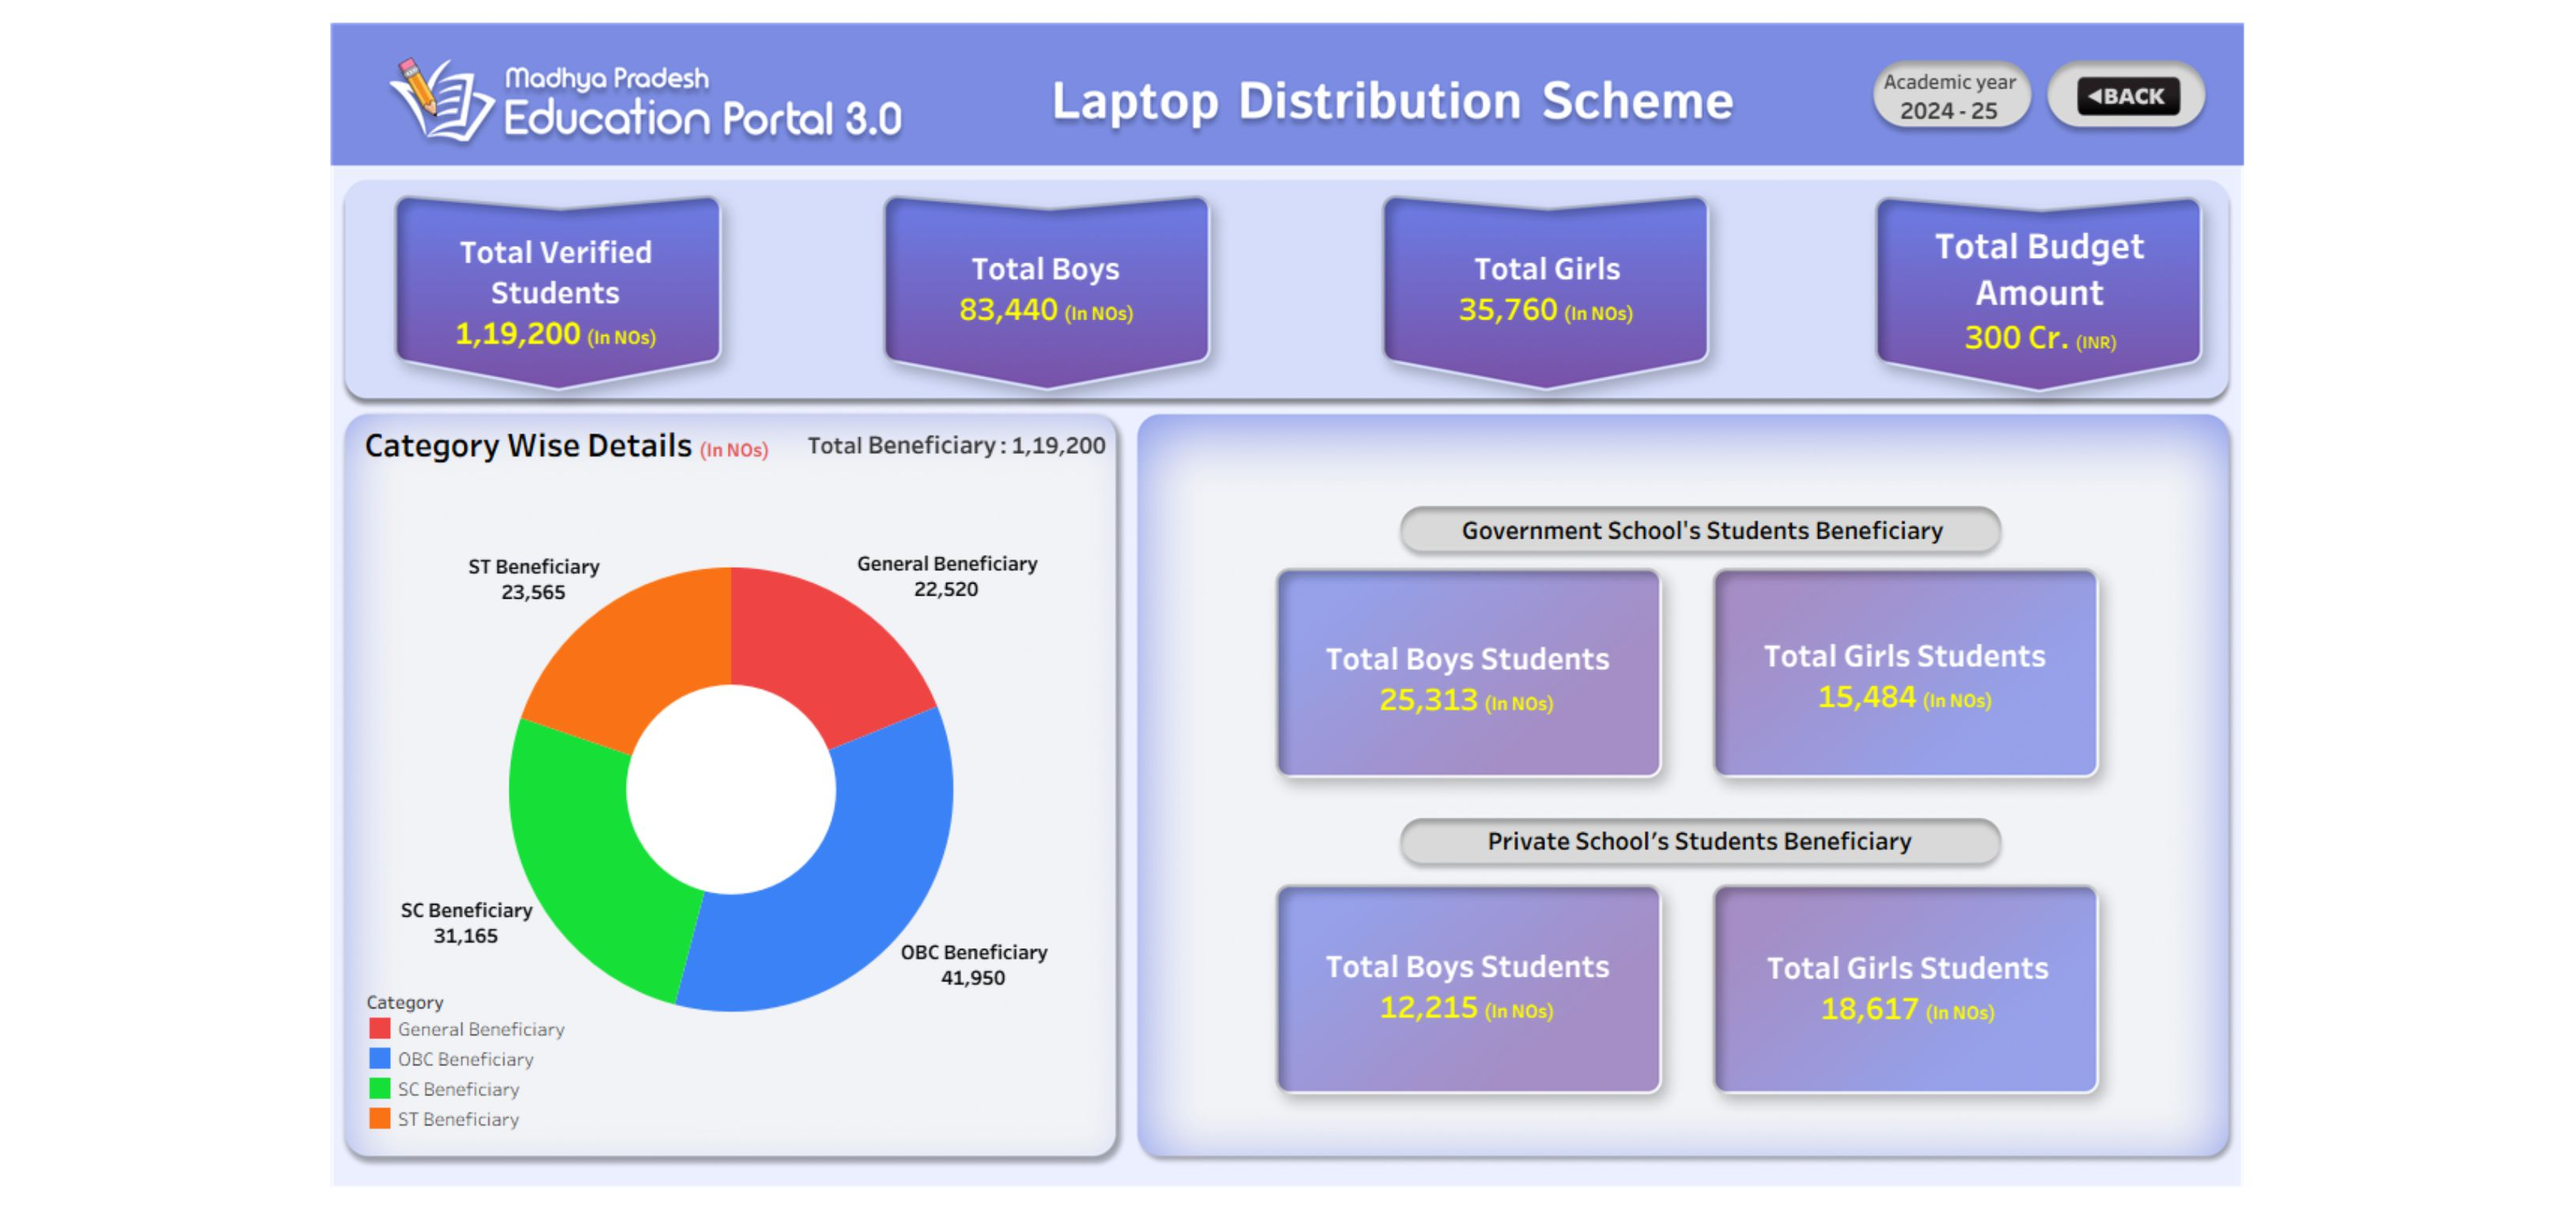
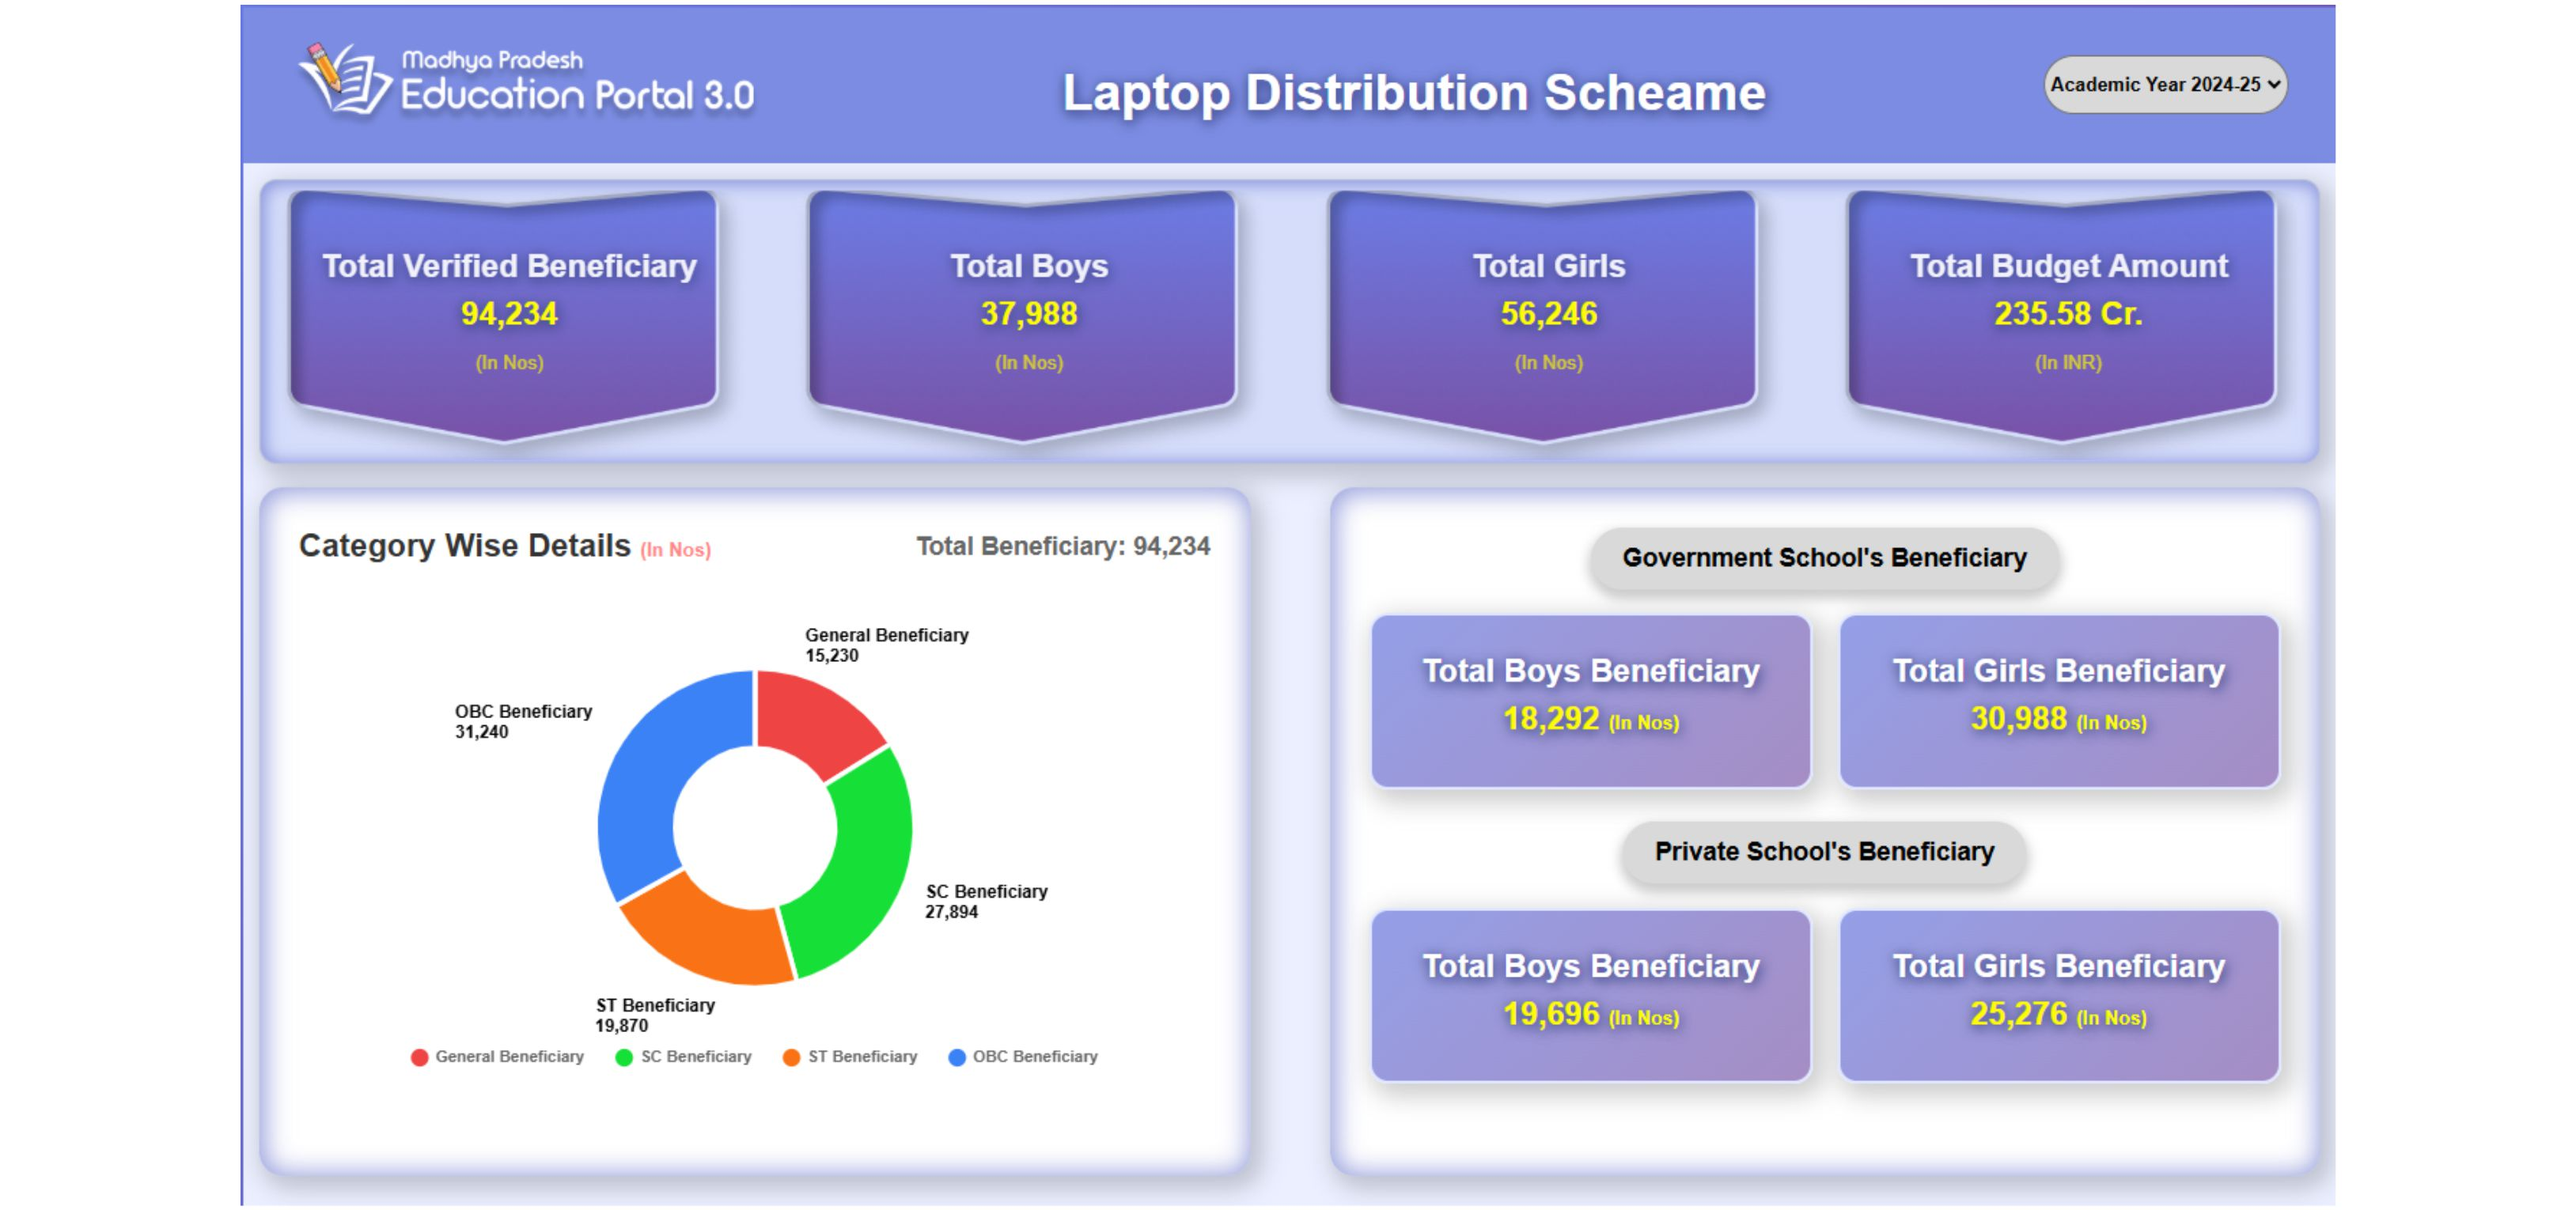
Okk

diff --git a/index.html b/index.html
@@ -1,14 +1,9 @@
 <!DOCTYPE html>
 <html lang="en">
-
 <head>
     <meta charset="UTF-8">
     <meta name="viewport" content="width=device-width, initial-scale=1.0">
     <title>मध्य प्रदेश स्कूल शिक्षा पोर्टल 3.0</title>
-    <link href="styles.css" rel="stylesheet">
-    <script src="chart.min.js"></script>
-    <script src="chartjs-plugin-datalabels.js"></script>
-    <script src="script.js"></script>
     <style>
         /* Base styles */
         * {
@@ -17,8 +12,7 @@
             box-sizing: border-box;
         }
 
-        html,
-        body {
+        html, body {
             height: 100%;
             overflow-x: hidden;
             font-family: Arial, sans-serif;
@@ -32,7 +26,7 @@
             position: relative;
             min-height: 100vh;
             width: 100%;
-            background: none;
+            background: none; 
         }
 
         /* Custom fonts */
@@ -69,8 +63,7 @@
         }
 
         /* Curtains */
-        .leftcurtain,
-        .rightcurtain {
+        .leftcurtain, .rightcurtain {
             position: absolute;
             top: 0;
             height: calc(100vh + 156px);
@@ -88,16 +81,14 @@
             width: 51%;
         }
 
-        .leftcurtain img,
-        .rightcurtain img {
+        .leftcurtain img, .rightcurtain img {
             width: 100%;
             height: 100%;
             object-fit: cover;
         }
 
         /* Ropes */
-        .rope,
-        .rope2 {
+        .rope, .rope2 {
             position: absolute;
             top: -40px;
             z-index: 20;
@@ -113,8 +104,7 @@
             right: 92%;
         }
 
-        .rope img,
-        .rope2 img {
+        .rope img, .rope2 img {
             width: auto;
             height: auto;
             max-width: 100px;
@@ -155,7 +145,6 @@
             align-items: center;
             justify-content: center;
             z-index: 1;
-            background: linear-gradient(135deg, #667eea 0%, #764ba2 100%);
         }
 
         .image-container img {
@@ -229,7 +218,6 @@
                 opacity: 1;
                 transform: rotate(0deg);
             }
-
             100% {
                 top: 100vh;
                 opacity: 0;
@@ -265,21 +253,19 @@
             .animated-button {
                 padding: 6px 30px;
                 font-size: 1.2rem;
-
+                
             }
-
+            
             .laptop-vitran-button {
                 bottom: 15%;
-
+                
             }
         }
-
-        .shadow {
-            text-shadow: 3px 4px 9px rgba(0, 0, 0, 0.6);
+        .shadow{
+           text-shadow: 3px 4px 9px rgba(0,0,0,0.6);
         }
     </style>
 </head>
-
 <body>
     <!-- Audio element -->
     <audio src="clap.mp3" id="my_audio" loop></audio>
@@ -289,10 +275,8 @@
         <div>
             <img src="images/Laptop Vitran.png" alt="Laptop Vitran" />
             <!-- Button added in front of Laptop Vitran image -->
-            <a class="animated-button laptop-vitran-button shadow" href="#"> <img src="images/laptop.png" height="50px"
-                    width="50px" style="margin-right: 10px; margin-bottom: -5px;">राशि वितरण करें
-                <img src="images/tap.png" height="50px" width="50px"
-                    style="margin-right: 10px; margin-bottom: -5px;"></a>
+            <a class="animated-button laptop-vitran-button shadow" href="#"> <img src="images/laptop.png" height="50px" width="50px" style="margin-right: 10px; margin-bottom: -5px;">राशि वितरण करें
+                <img src="images/tap.png" height="50px" width="50px" style="margin-right: 10px; margin-bottom: -5px;"></a>
         </div>
     </div>
 
@@ -314,99 +298,9 @@
 
     <!-- Main image container -->
     <div class="image-container">
-       <div class="container-fluid container1">
-        <!-- Header -->
-        <div class="header">
-            <div class="logo-section">
-                <img src="images/EduLogo.png" alt="Logo" style="width: 17vw;  object-fit: contain; border-radius: 8px;">
-                <div class="header-text">
-                    <!-- Removed the h1 heading -->
-                </div>
-            </div>
-             <div id="Heading" style="width: 100%; text-align: center; margin-top: 10px;">
-                <p style="font-size: 2rem; font-weight: 700; color: #fff; margin: 0; text-shadow: 2px 2px 8px #4e5bb1, 0 2px 8px #00000080;">Laptop Distribution Scheame</p>
-            </div>
-            <div>
-                <select class="academic-year" >
-                    <option value="0">Academic Year 2024-25</option>
-                    <option value="1">Academic Year 2023-24</option>
-                </select>
-            </div>
-        </div>
-
-        <!-- Main Statistics -->
-     
-        <div class="card">
-            <div class="stat-card">
-                <div class="stat-label">Total Verified <br> Beneficiary</div>
-                <div class="stat-value">94,234 <span class="mini-stat-detail">(In Nos)</span></div>
-            </div>
-            <div class="stat-card">
-                <div class="stat-label">Total Boys</div>
-                <div class="stat-value">37,988 <span class="mini-stat-detail">(In Nos)</span></div>
-            </div>
-            <div class="stat-card">
-                <div class="stat-label">Total Girls</div>
-                <div class="stat-value">56,246 <span class="mini-stat-detail">(In Nos)</span></div>
-            </div>
-            <div class="stat-card">
-                <div class="stat-label">Total Budget <br>Amount</div>
-                <div class="stat-value">235.58 Cr. <span class="mini-stat-detail">(In INR)</span></div>
-            </div>
-        </div>
-
-        <!-- Charts Section -->
-        <div class="charts-container">
-            <!-- Category Wise Chart -->
-            <div class="chart-card ">
-                <div>
-                    <h3 class="chart-title " style="display: inline;">Category Wise Details </h3>
-                    <p style="text-align: center; font-weight: 600;font-size: 12px; color: #ff8787; display: inline;">(In Nos)</p>
-                    <p style="text-align: center; font-weight: 600; font-size: 0.9; color: #666; display: inline;float: right;">Total Beneficiary: 94,234</p>
-                </div>
-                <div class="chart-wrapper">
-                    <canvas id="categoryChart"></canvas>
-                </div>
-                
-            </div>
-
-            <!-- Management Type Wise Section (now side by side with Category Wise) -->
-             <div class="chart-card ">
-                <!-- <h3 class="chart-title">Management Type Wise (In INR)</h3> -->
-                <div class="school-type">
-                    <h3>Government School's Beneficiary</h3>
-                    <div class="school-stats">
-                        <div class="mini-stat">
-                            <div class="mini-stat-label">Total Boys Beneficiary</div>
-                          
-                            <div class="mini-stat-value">18,292 <span class="mini-stat-detail">(In Nos)</span></div>
-                        </div>
-                        <div class="mini-stat">
-                            <div class="mini-stat-label">Total Girls Beneficiary</div>
-      
-                            <div class="mini-stat-value">30,988 <span class="mini-stat-detail">(In Nos)</span></div>
-                        </div>
-                    </div>
-                </div>
-                <div class="school-type mt-3">
-                    <h3>Private School's Beneficiary</h3>
-                    <div class="school-stats">
-                        <div class="mini-stat">
-                            <div class="mini-stat-label">Total Boys Beneficiary</div>
-                            
-                            <div class="mini-stat-value">19,696 <span class="mini-stat-detail">(In Nos)</span></div>
-                        </div>
-                        <div class="mini-stat">
-                            <div class="mini-stat-label">Total Girls Beneficiary</div>
-                          
-                            <div class="mini-stat-value">25,276 <span class="mini-stat-detail">(In Nos)</span></div>
-                        </div>
-                    </div>
-                </div>
-            </div>
-        </div>
-    </div>
-        
+        <a href="#" target="_blank">
+            <img src="images/laptopDashboard.jpg" alt="Background Image" />
+        </a>
         <!-- <a class="animated-button dashboard-button" href="#" target="_blank">शुभारंभ</a> -->
     </div>
 
@@ -416,7 +310,7 @@
     </div>
 
     <script>
-        document.addEventListener('DOMContentLoaded', function () {
+        document.addEventListener('DOMContentLoaded', function() {
             // Variables
             let curtainOpen = false;
             const leftCurtain = document.querySelector('.leftcurtain');
@@ -441,7 +335,7 @@
                 flower.style.animation = `fall ${Math.random() * 4 + 3}s linear infinite`;
                 flower.style.zIndex = '1';
                 document.body.appendChild(flower);
-
+                
                 setTimeout(() => {
                     flower.remove();
                 }, 8000);
@@ -477,12 +371,12 @@
                     curtainOpen = true;
 
                     // Stop audio after a while
-                    setTimeout(function () {
+                    setTimeout(function() {
                         audio.pause();
                     }, 6500);
-
+                    
                     // Redirect after curtain animation completes (7 seconds)
-                    setTimeout(function () {
+                    setTimeout(function() {
                         window.location.href = targetUrl;
                     }, 7000);
                 }
@@ -494,11 +388,10 @@
             paymentButton.addEventListener('click', openCurtains);
 
             // Make sure the page is responsive on resize
-            window.addEventListener('resize', function () {
+            window.addEventListener('resize', function() {
                 // Adjust any elements that need to be responsive on resize
             });
         });
     </script>
 </body>
-
 </html>
